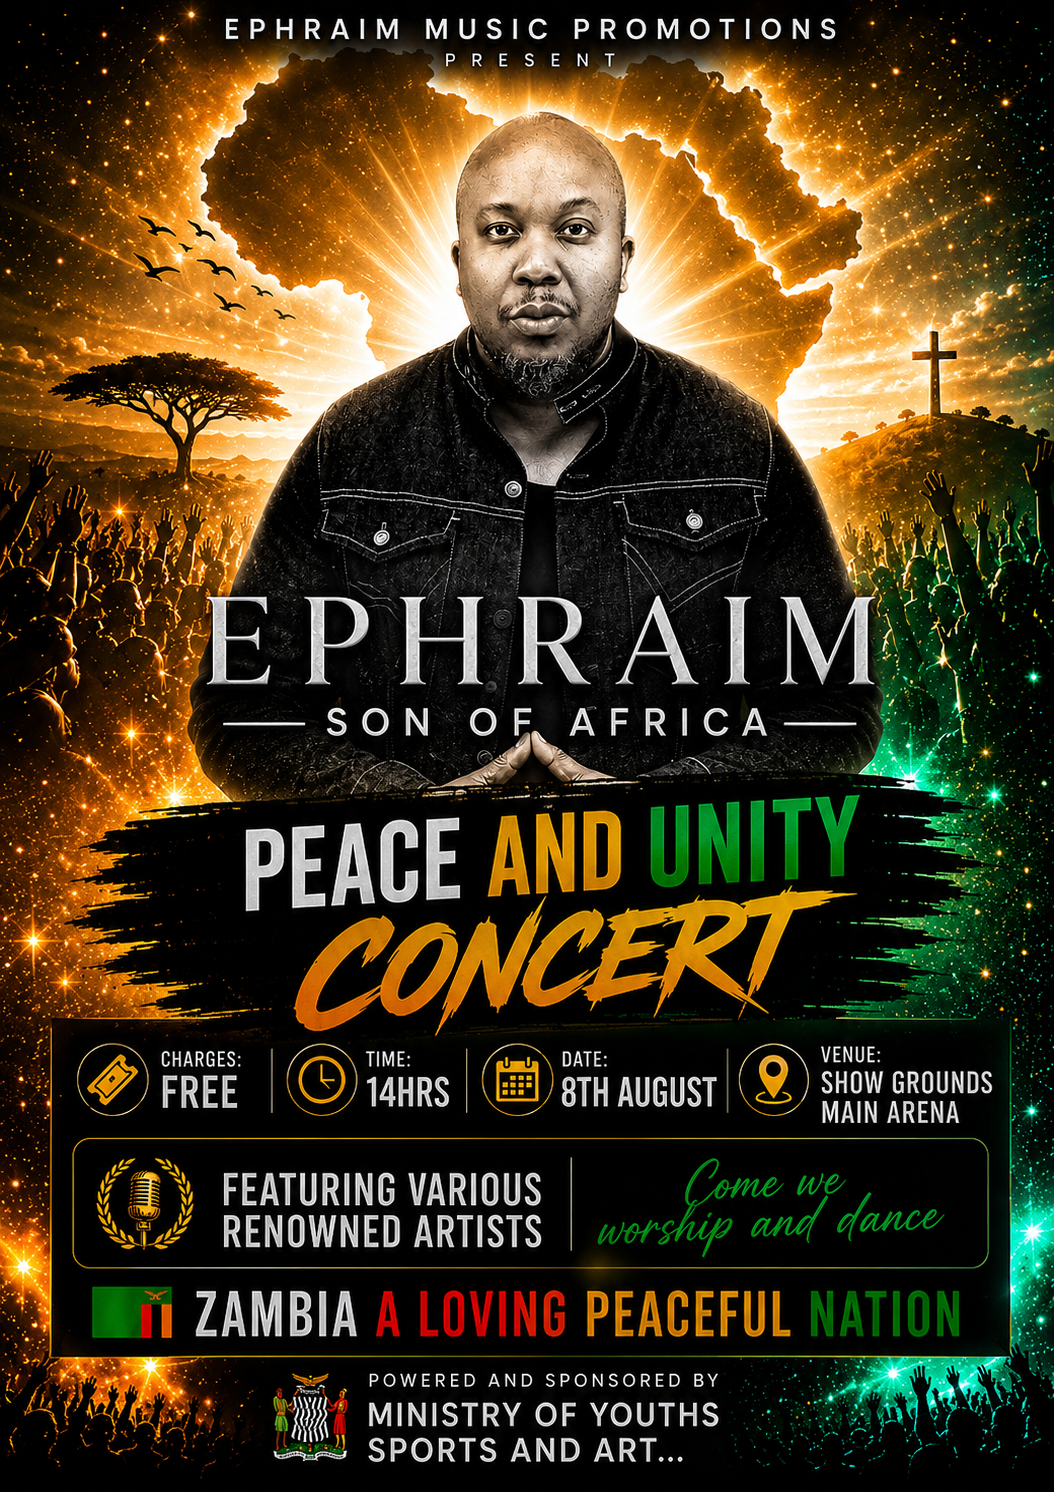
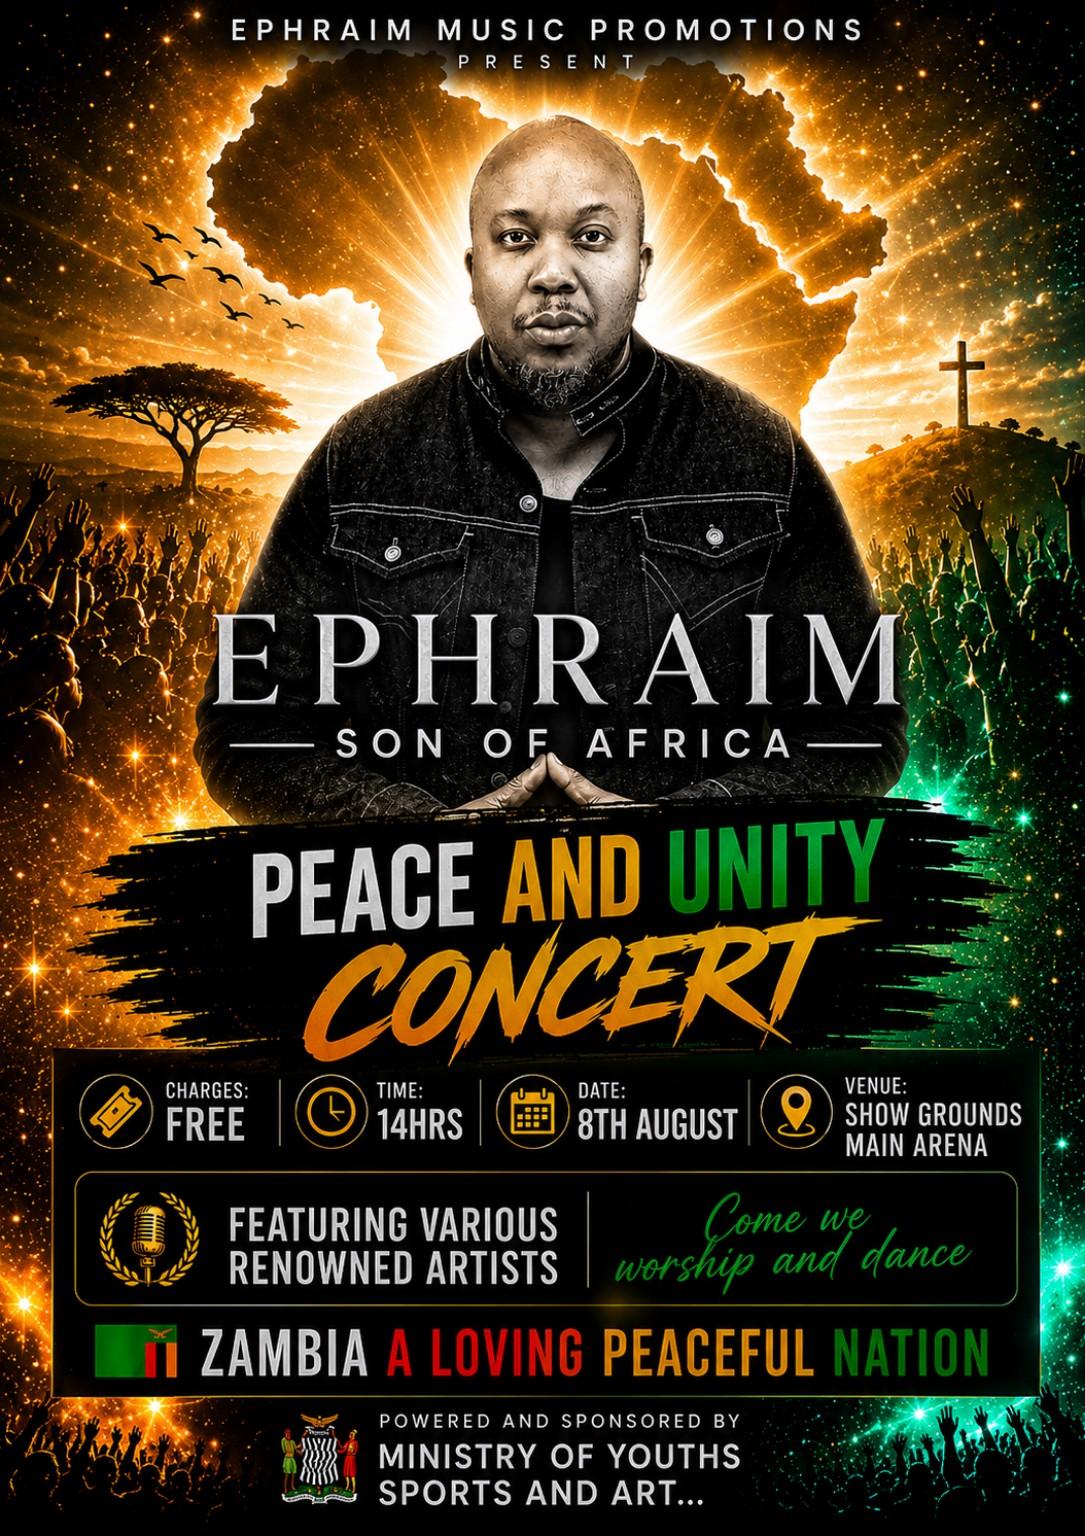
Add files via upload

diff --git a/index.html b/index.html
@@ -72,7 +72,9 @@
         <h2>Ephraim — Son of Africa</h2>
         <p>Join families, young people and music lovers from across Zambia for a joyful, faith-filled celebration.</p>
         <div class="share-row">
-          <a class="button primary" href="https://www.google.com/maps/search/?api=1&query=Main+Arena%2C+Agricultural+and+Commercial+Showgrounds%2C+Plot+2374%2C+Great+East+Road%2C+Lusaka%2C+Zambia" target="_blank" rel="noopener noreferrer">Open in Google Maps</a>
+          <a class="button primary" href="https://www.google.com/maps/search/?api=1&query=Main+Arena%2C+Agricultural+and+Commercial+Showgrounds%2C+Plot+2374%2C+Great+East+Road%2C+Lusaka%2C+Zambia" target="_blank" rel="noopener noreferrer">📍 Directions</a>
+          <a class="button secondary" href="https://www.facebook.com/share/1FMYhcHi6x/" target="_blank" rel="noopener noreferrer">Facebook</a>
+          <a class="button secondary" href="https://wa.me/260765461137" target="_blank" rel="noopener noreferrer">WhatsApp</a>
           <button class="button secondary" id="share-button" type="button">Share event</button>
           <a class="button secondary" id="calendar-link" href="#">Add to calendar</a>
         </div>
